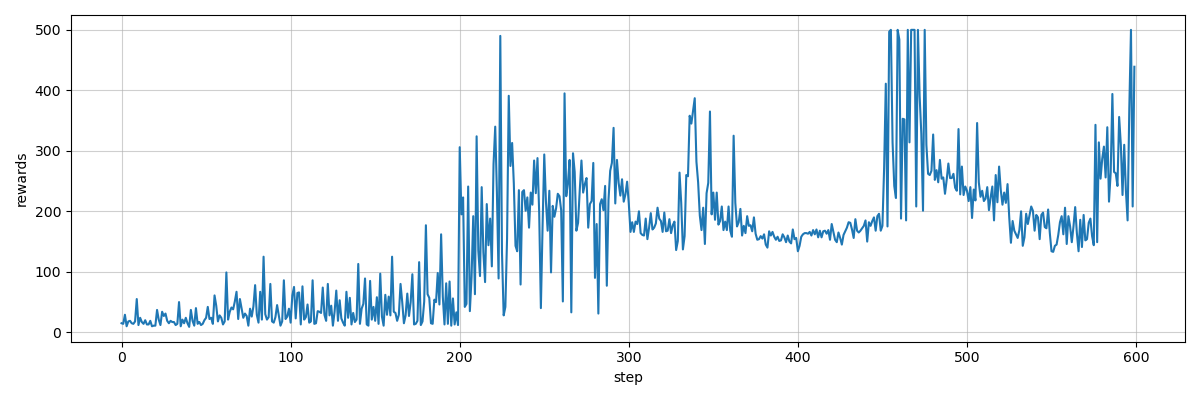
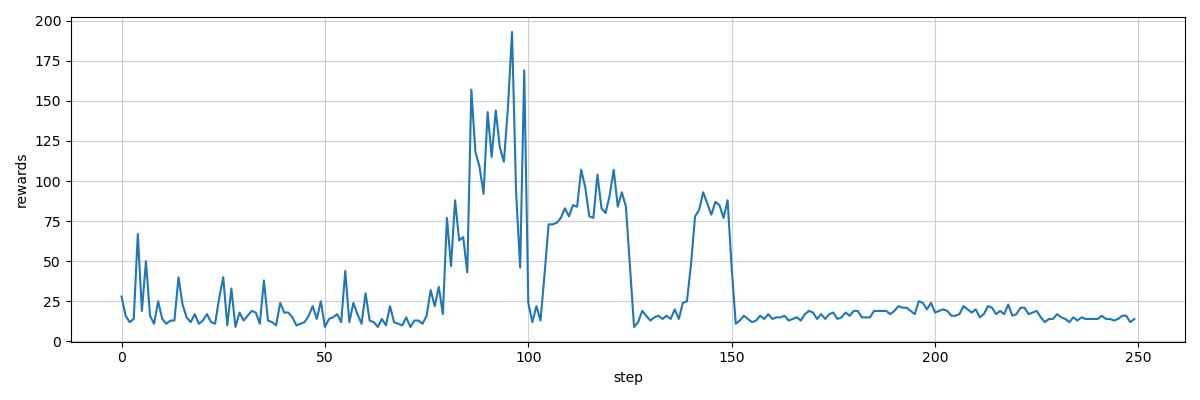
detailed logging in  TF board

diff --git a/policies/dqn.py b/policies/dqn.py
@@ -17,16 +17,17 @@ from utils.annealing_schedule import AnnealingSchedule
 
 
 class DefaultConfig(TrainConfig):
-    n_episodes = 600
-    warmup_episodes = 400
+    n_episodes = 250
+    warmup_episodes = 150
 
     # fixed learning rate
     learning_rate = 0.001
-    end_learning_rate = 0.0001
+    end_learning_rate = 0.001
     # decaying learning rate
-    learning_rate = tf.keras.optimizers.schedules.PolynomialDecay(initial_learning_rate=learning_rate,
-                                                                  decay_steps=n_episodes*10000,
-                                                                  end_learning_rate=end_learning_rate, power=1.0)
+    # learning_rate = tf.keras.optimizers.schedules.PolynomialDecay(initial_learning_rate=learning_rate,
+    #                                                               decay_steps=n_episodes*10000,
+    #                                                               end_learning_rate=end_learning_rate, power=1.0)
+    learning_rate_schedule = AnnealingSchedule(learning_rate, end_learning_rate, n_episodes)
     gamma = 1.0
     epsilon = 1.0
     epsilon_final = 0.01
@@ -36,14 +37,14 @@ class DefaultConfig(TrainConfig):
 
     # Memory setting
     batch_normalization = False
-    batch_size = 256
+    batch_size = 128
     memory_size = 100000
     # PER setting
     prioritized_memory_replay = True
-    replay_alpha = 0.2
+    replay_alpha = 0.3
     replay_beta = 0.4
     replay_beta_final = 1.0
-    beta_schedule = AnnealingSchedule(replay_beta, replay_beta_final, warmup_episodes)
+    beta_schedule = AnnealingSchedule(replay_beta, replay_beta_final, n_episodes, inverse=True)
     prior_eps = 1e-6
 
 
@@ -66,7 +67,12 @@ class DQNAgent(Policy, BaseModelMixin):
         self.layers = layers
 
         # Optimizer
-        self.optimizer = tf.keras.optimizers.RMSprop(learning_rate=self.config.learning_rate)#, clipnorm=5)
+        self.global_lr = tf.Variable(self.config.learning_rate_schedule.current_p, trainable=False)
+        self.optimizer = tf.keras.optimizers.Adam(learning_rate=self.global_lr) #, clipnorm=100)
+        # Huber Loss
+        self.h = tf.keras.losses.Huber(delta=10.0, reduction=tf.keras.losses.Reduction.NONE)
+
+
         # Target net
         self.target_net = tf.keras.Sequential()
         self.target_net.add(tf.keras.layers.Input(shape=env.observation_space.shape))
@@ -88,8 +94,10 @@ class DQNAgent(Policy, BaseModelMixin):
                 self.main_net.add(tf.keras.layers.BatchNormalization())
         self.main_net.add(tf.keras.layers.Dense(env.action_space.n, activation='linear'))
         self.main_net.build()
-
         self.main_net.compile(optimizer='adam', loss=tf.keras.losses.MeanSquaredError())
+
+        # Global step - epoch - number of trainings elapsed
+        self.global_step = 0
 
     def get_action(self, state, epsilon):
         q_value = self.main_net.predict_on_batch(state[None, :])
@@ -136,19 +144,33 @@ class DQNAgent(Policy, BaseModelMixin):
             main_value = tf.reduce_sum(tf.one_hot(actions, self.act_size) * main_q, axis=1)
 
             td_error = target_value - main_value
+            element_wise_loss = tf.square(td_error) * 0.5
+            # element_wise_loss = self.h(target_value, main_value)
             if self.config.prioritized_memory_replay:
-                error = tf.square(weights * td_error) * 0.5
+                error = tf.reduce_mean(element_wise_loss * weights)
             else:
-                error = tf.square(td_error) * 0.5
-            error = tf.reduce_mean(error)
+                error = tf.reduce_mean(element_wise_loss)
+
 
         # update per priorities
         if self.config.prioritized_memory_replay:
             self.memory.update_priorities(idx, np.abs(td_error.numpy()) + self.config.prior_eps)
-        # loss = self.main_net.train_on_batch(states, target_value)
         dqn_grads = tape.gradient(error, dqn_variable)
         self.optimizer.apply_gradients(zip(dqn_grads, dqn_variable))
-        return error
+
+        # Logging
+        self.global_step += 1
+        with self.writer.as_default():
+            with tf.name_scope('Network'):
+                tf.summary.histogram('Weights', self.main_net.weights[0], step=self.global_step)
+                tf.summary.histogram('Gradients', dqn_grads[0], step=self.global_step)
+                tf.summary.histogram('Predictions', main_value, step=self.global_step)
+                tf.summary.histogram('Target', target_value, step=self.global_step)
+                tf.summary.histogram('TD error', td_error, step=self.global_step)
+                tf.summary.histogram('Elementwise Loss', element_wise_loss, step=self.global_step)
+                tf.summary.scalar('Loss', tf.reduce_mean(element_wise_loss), step=self.global_step)
+
+        return tf.reduce_mean(element_wise_loss)
 
     def run(self):
 
@@ -183,13 +205,19 @@ class DQNAgent(Policy, BaseModelMixin):
 
             self.config.epsilon_schedule.anneal()
             self.config.beta_schedule.anneal()
+            self.global_lr.assign(self.config.learning_rate_schedule.anneal())
 
             with self.writer.as_default():
                 with tf.name_scope('Performance'):
                     tf.summary.scalar('episode reward', score, step=i)
                     tf.summary.scalar('running avg reward(100)', avg_rewards, step=i)
-                    tf.summary.scalar('loss', 0 if loss is None else loss, step=i)
-                    tf.summary.histogram('Weights', self.main_net.weights[0], step=i)
+
+                if self.config.prioritized_memory_replay:
+                    with tf.name_scope('Schedules'):
+                        tf.summary.scalar('Beta', self.config.beta_schedule.current_p, step=i)
+                        tf.summary.scalar('Epsilon', self.config.epsilon_schedule.current_p, step=i)
+                        tf.summary.scalar('Learning rate', self.optimizer._decayed_lr(tf.float32).numpy(), step=i)
+
 
             # Specific four mountain car
             if done and score == 500:
@@ -202,8 +230,8 @@ class DQNAgent(Policy, BaseModelMixin):
                 break
 
             if i % self.config.log_every_episode == 0:
-                print("episode:", i, "/", self.config.n_episodes, "episode reward:", score,"avg reward (last 100):",
-                      avg_rewards, "eps:",  self.config.epsilon_schedule.current_p, "Learning rate (10e3):",
+                print("episode:", i, "/", self.config.n_episodes, "episode reward:", score, "avg reward (last 100):",
+                      avg_rewards, "eps:",  self.config.epsilon_schedule.current_p, "Learning rate (10e-3):",
                       (self.optimizer._decayed_lr(tf.float32).numpy() * 1000),
                       "Consecutively solved:", solved_consecutively)
 
@@ -221,8 +249,6 @@ class DQNAgent(Policy, BaseModelMixin):
             tf.summary.scalar('stddev', stddev)
             tf.summary.histogram('histogram', var)
 
-
-
     def save(self):
         current_time = datetime.datetime.now().strftime("%Y%m%d-%H%M%S")
         path = os.path.join(self.model_dir, current_time + '.h5')
@@ -231,6 +257,7 @@ class DQNAgent(Policy, BaseModelMixin):
     def load(self, modelh5):
         assert NotImplementedError
         self.main_net = tf.keras.models.load_model(modelh5)
+
 
 if __name__ == '__main__':
     import gym

diff --git a/utils/annealing_schedule.py b/utils/annealing_schedule.py
@@ -1,13 +1,22 @@
 
 class AnnealingSchedule:
     # linear annealing of a parameter
-    def __init__(self, starting_par: float, ending_par: float, n_steps: int):
+    def __init__(self, starting_par: float, ending_par: float, n_steps: int, inverse=False):
         self.starting_p = starting_par
         self.ending_p = ending_par
         self.n_steps = n_steps
         self.p_drop = (self.starting_p - self.ending_p) / self.n_steps
         self.current_p = starting_par
 
+        self.inverse = inverse
+
     def anneal(self):
-        if self.current_p > self.ending_p:
-            self.current_p = max(self.ending_p, self.current_p - self.p_drop)
+        if not self.inverse:
+            if self.current_p > self.ending_p:
+                self.current_p = max(self.ending_p, self.current_p - self.p_drop)
+        else:
+
+            if self.current_p < self.ending_p:
+                self.current_p = self.current_p - self.p_drop
+
+        return self.current_p
